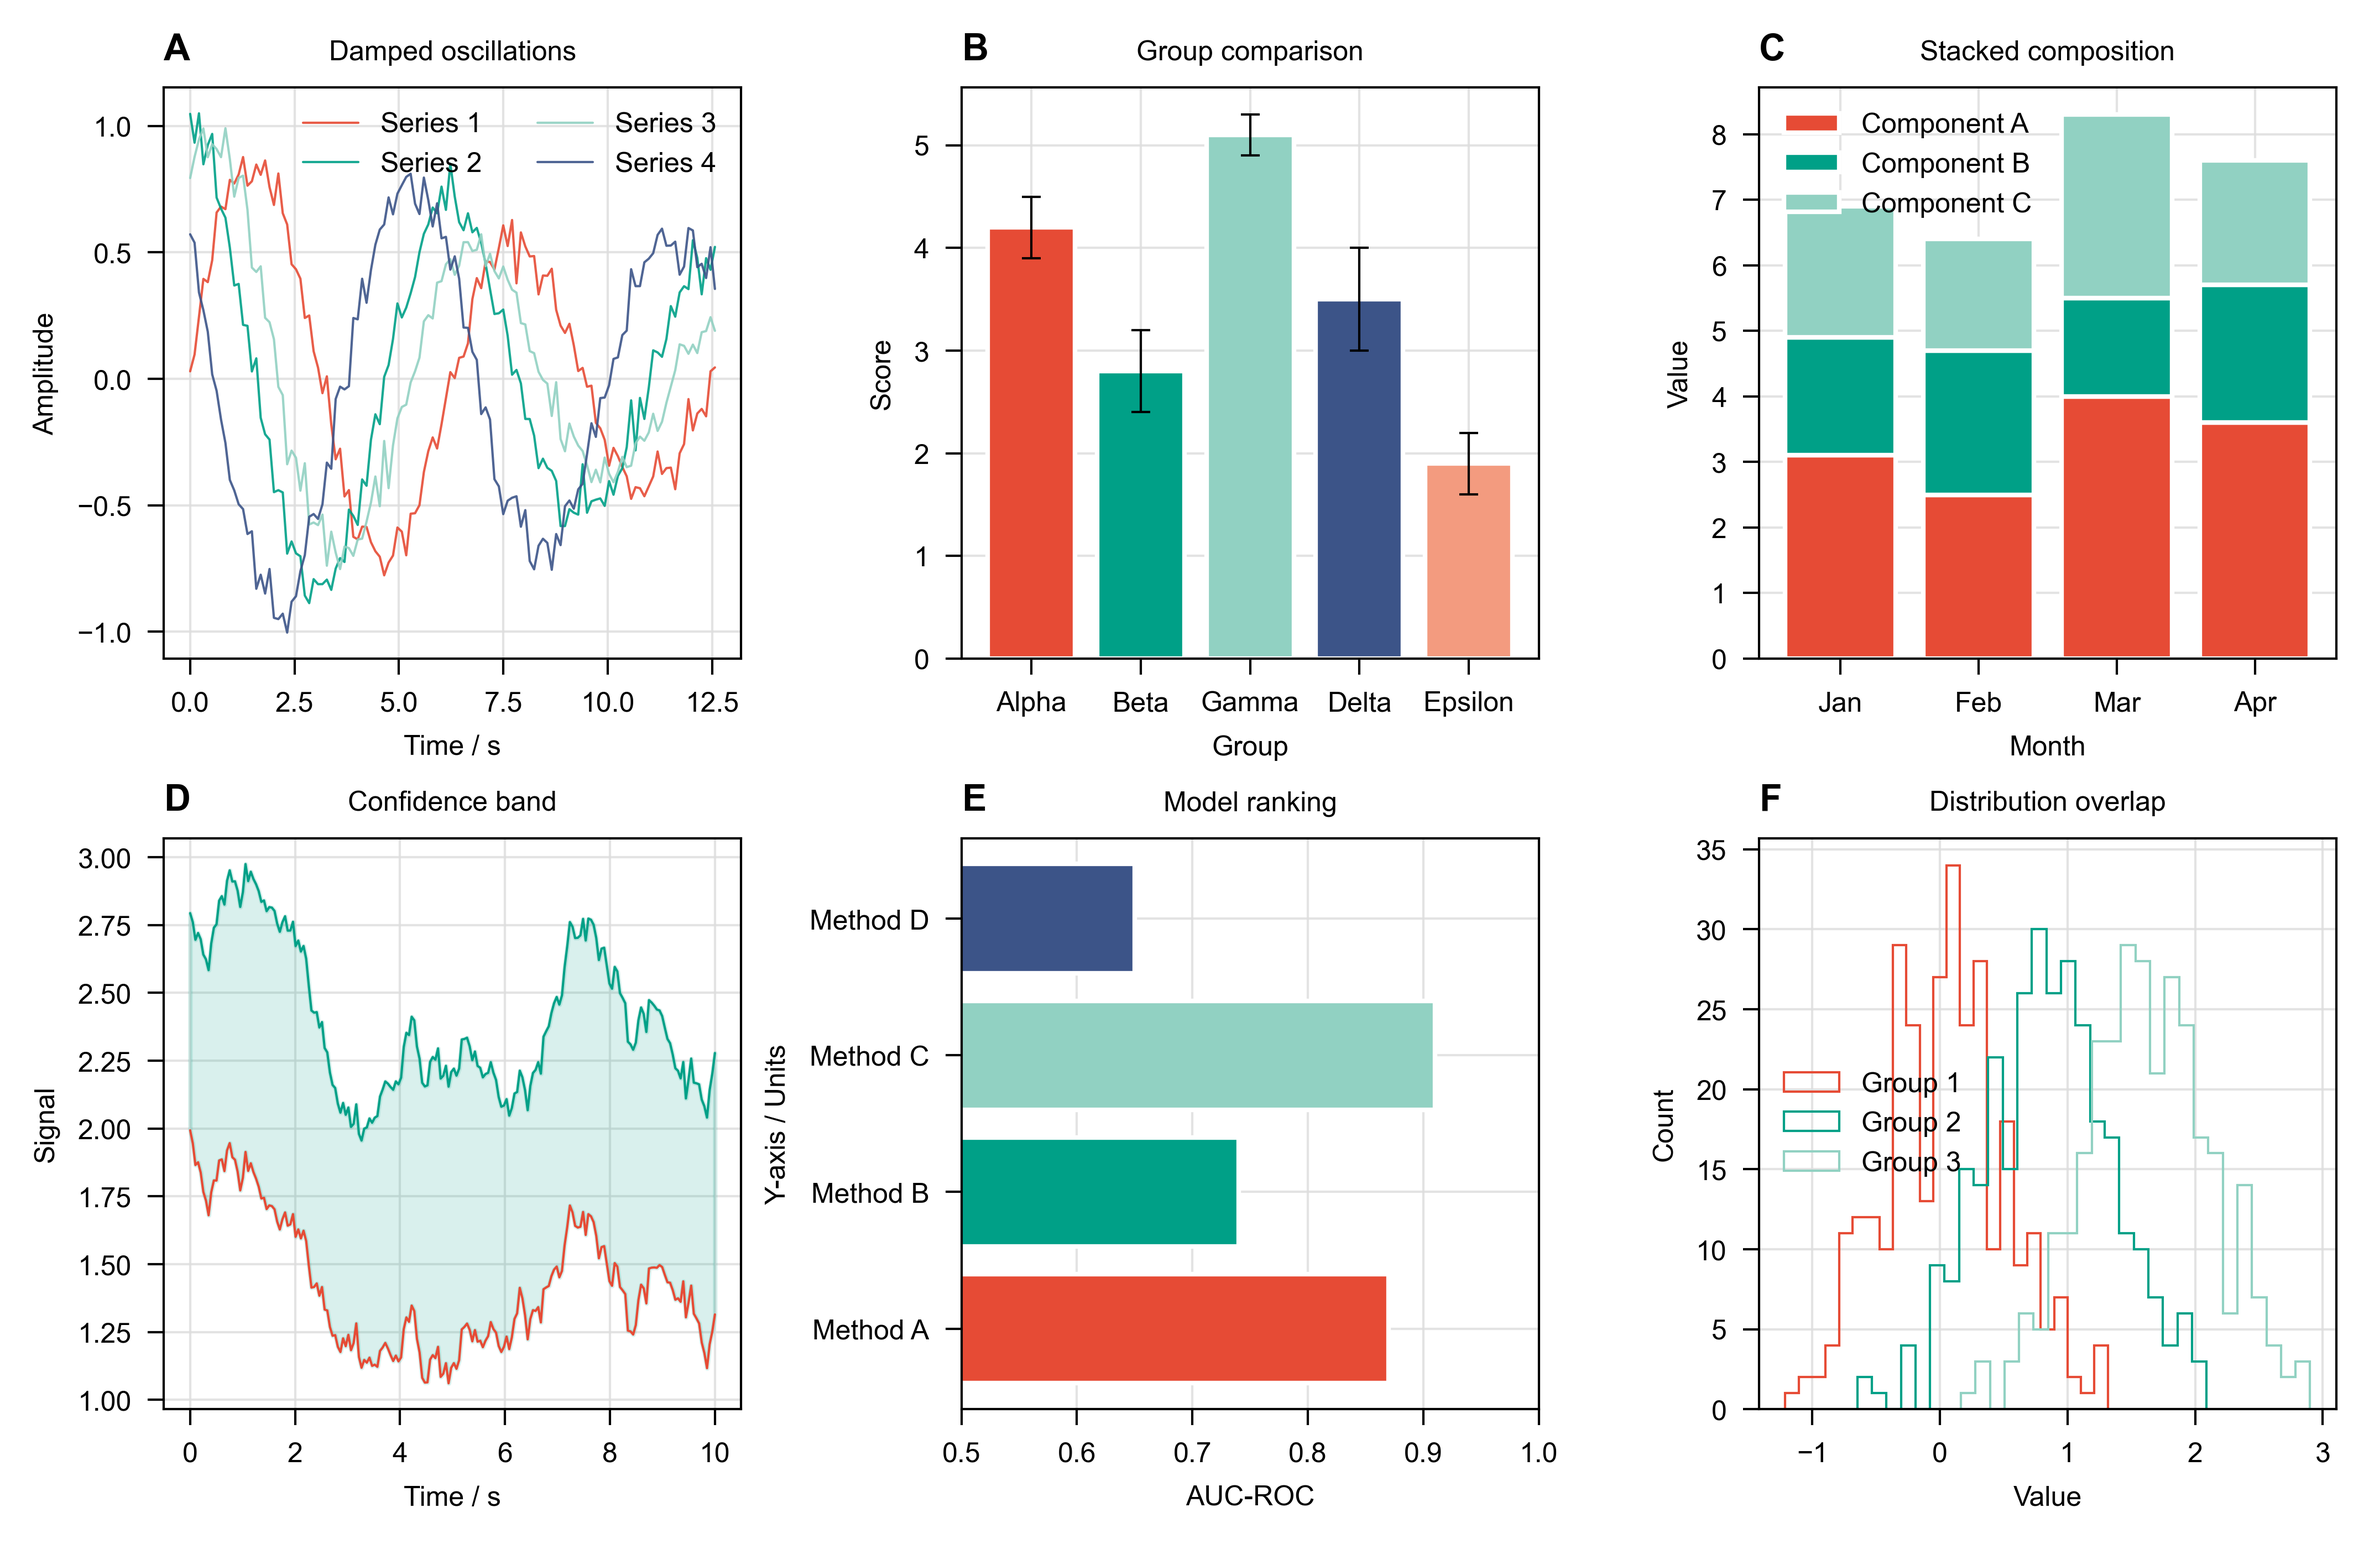
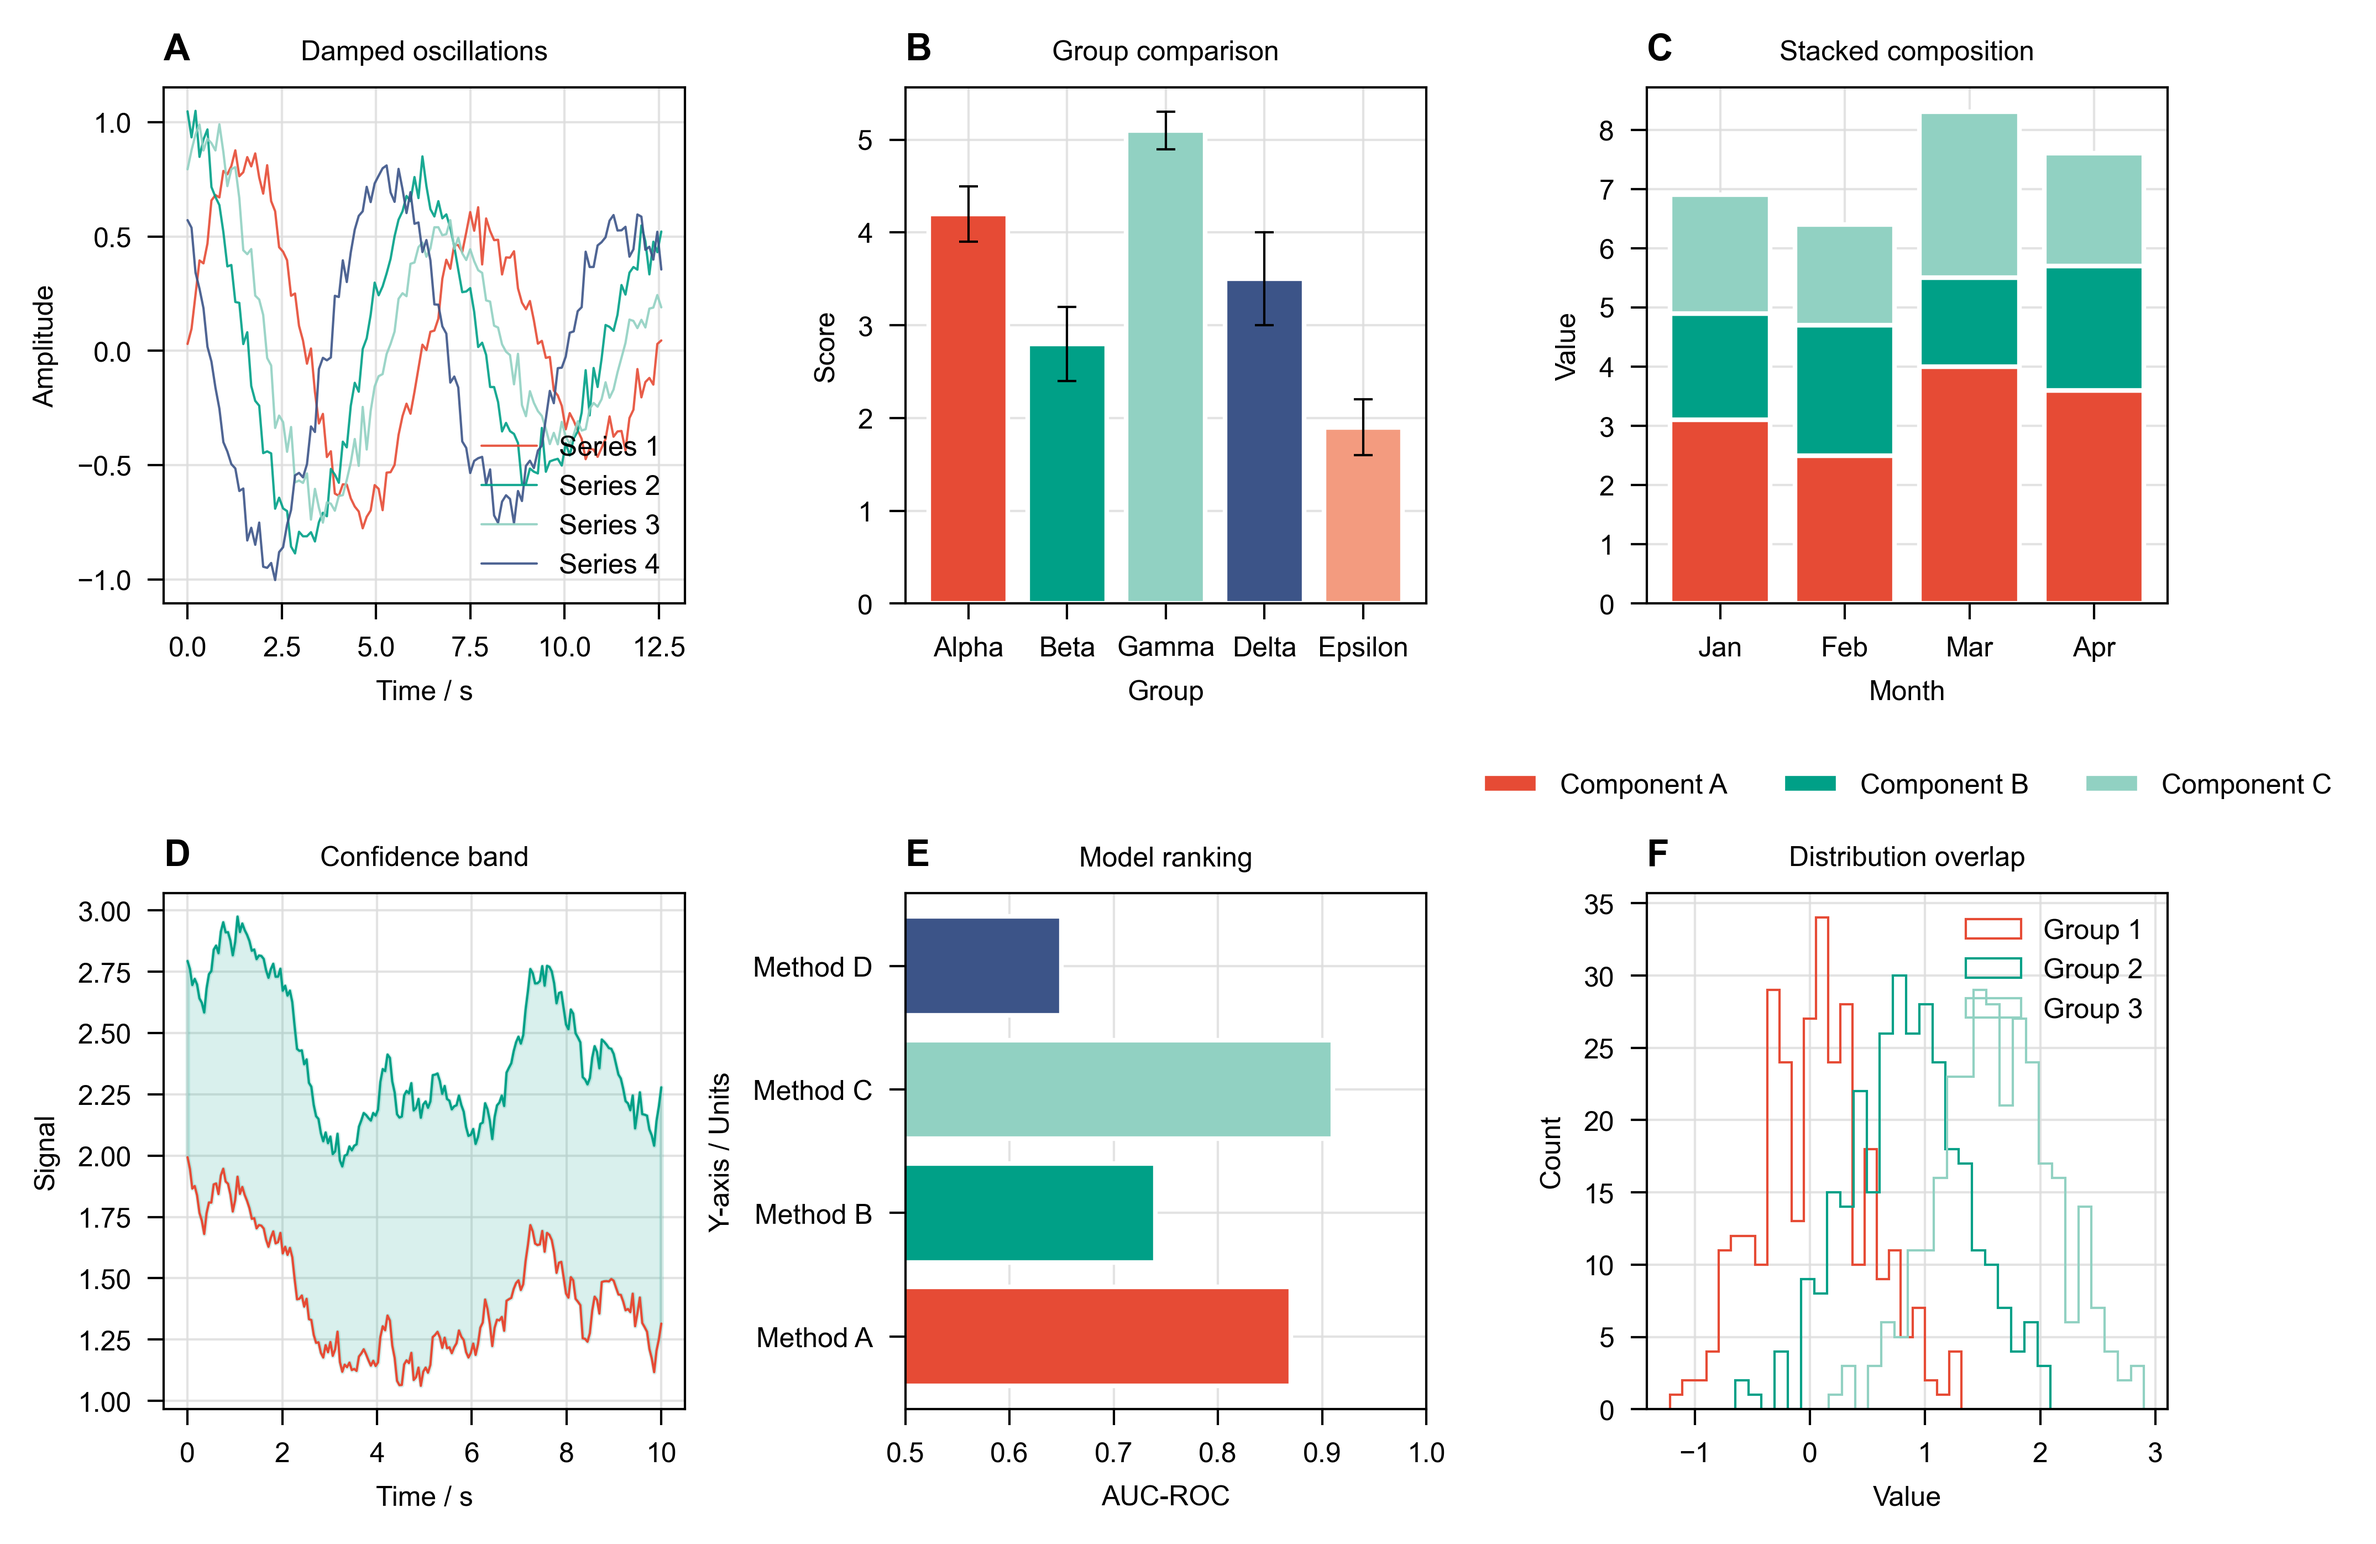
Fix legend placement in demo figures to avoid overlapping with data
- Panel A: loc='lower right' (lines decay to zero, right side is empty)
- Panel C: below the plot via bbox_to_anchor, ncol=3 (stacked bars fill entire axes)
- Panel F: loc='upper right' (distributions cluster left of center)

diff --git a/make_demo.py b/make_demo.py
@@ -59,7 +59,7 @@ def make_grid(style, outpath):
         ax.plot(x, yi, color=col, linewidth=lw, alpha=0.9, label=f"Series {i+1}")
     ax.set_xlabel("Time / s")
     ax.set_ylabel("Amplitude")
-    ax.legend(frameon=False, ncol=2)
+    ax.legend(frameon=False, loc="lower right")
     stylia.label(ax, title="Damped oscillations", abc="A")
 
     # ── panel B: bar + error bars ────────────────────────────────────────────
@@ -79,7 +79,8 @@ def make_grid(style, outpath):
     ax.bar(stack_labels, stack_c, bottom=stack_a + stack_b, color=c3[2], label="Component C")
     ax.set_xlabel("Month")
     ax.set_ylabel("Value")
-    ax.legend(frameon=False)
+    ax.legend(frameon=False, loc="upper center",
+              bbox_to_anchor=(0.5, -0.28), ncol=3)
     stylia.label(ax, title="Stacked composition", abc="C")
 
     # ── panel D: area / filled lines ─────────────────────────────────────────
@@ -109,7 +110,7 @@ def make_grid(style, outpath):
                 linewidth=lw, label=f"Group {j+1}")
     ax.set_xlabel("Value")
     ax.set_ylabel("Count")
-    ax.legend(frameon=False)
+    ax.legend(frameon=False, loc="upper right")
     stylia.label(ax, title="Distribution overlap", abc="F")
 
     stylia.save_figure(outpath)
